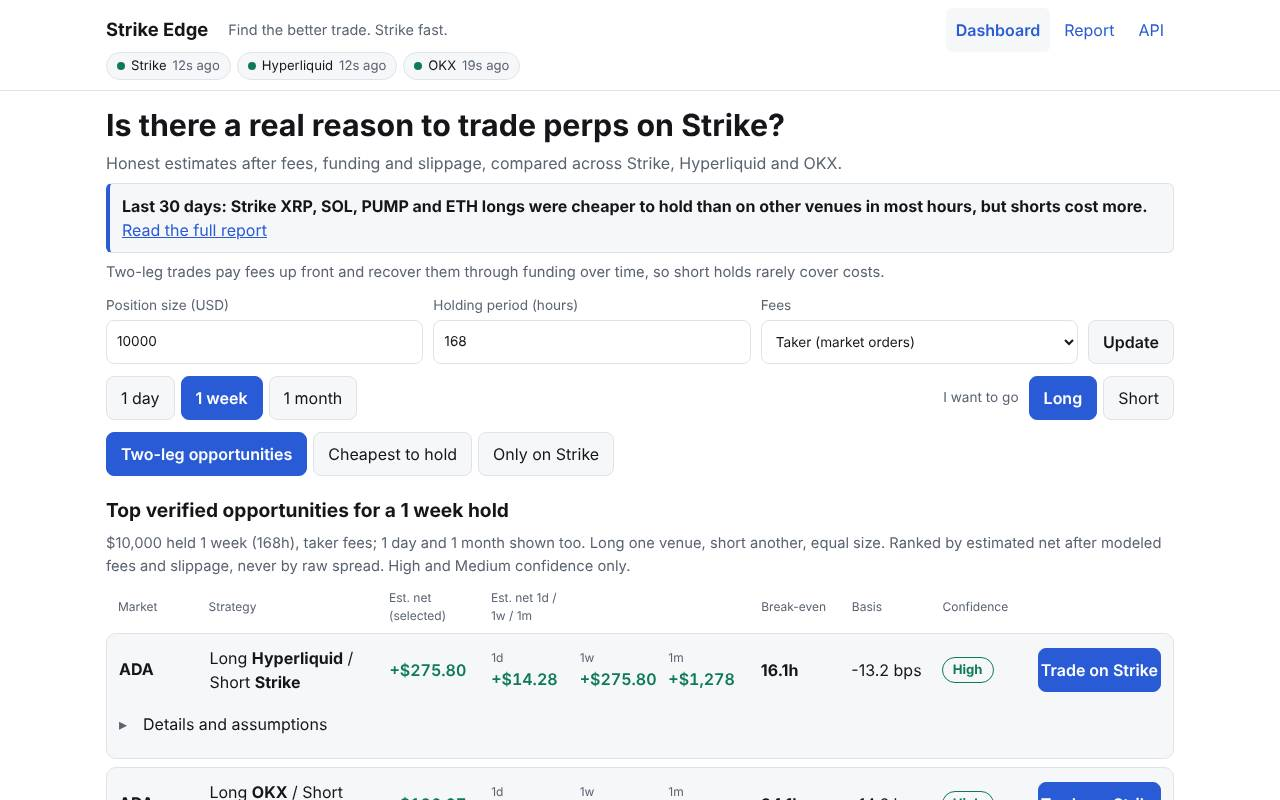
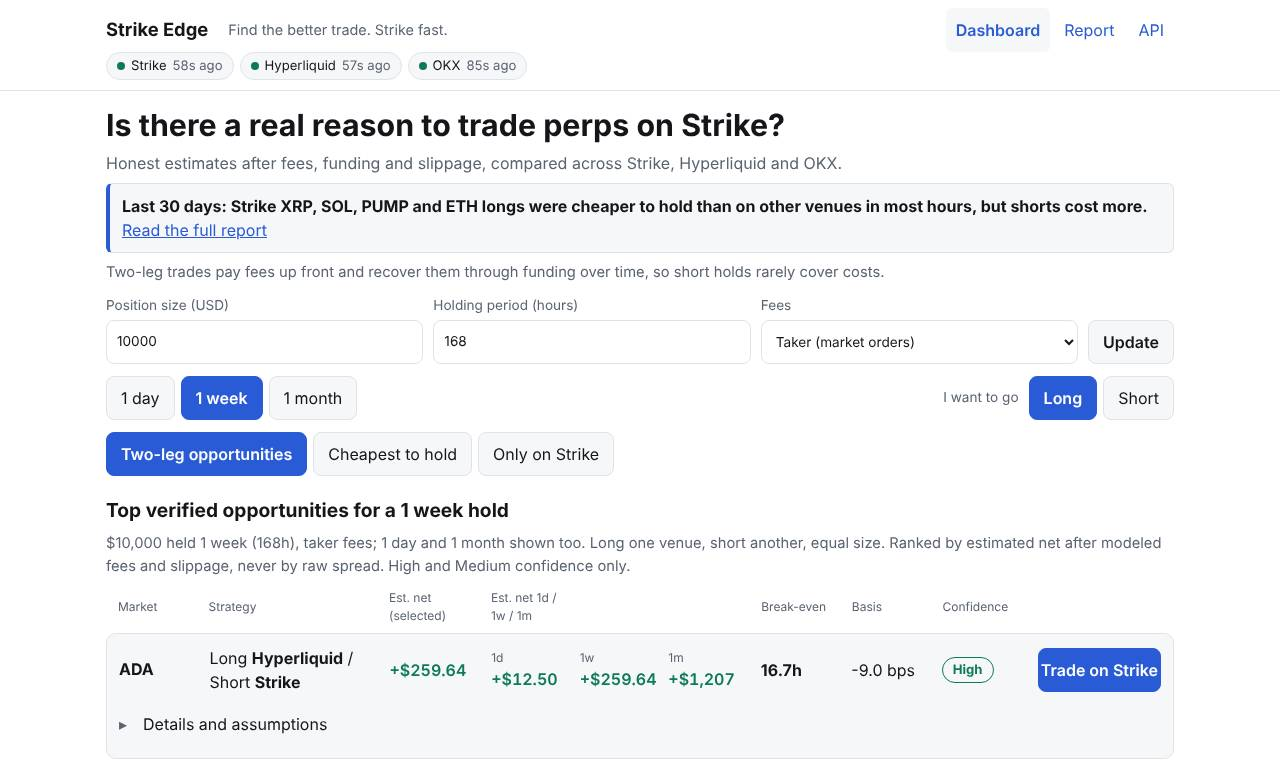
README: move tool comparison after Who it is for; crop hero below first card

diff --git a/tests/test_rename.py b/tests/test_rename.py
@@ -164,11 +164,7 @@ def test_readme_states_rate_limit_is_best_effort_and_todo_note_exists():
         "which is fixed by the poller schedule."
     )
     assert line in readme
-    assert (
-        readme.index("## API quickstart")
-        < readme.index(line)
-        < readme.index("## How existing tools compare")
-    )
+    assert readme.index("## API quickstart") < readme.index(line) < readme.index("## Run locally")
     todo = (ROOT / "docs" / "TODO-rate-limit-client-key.md").read_text()
     for needle in (
         "CF-Connecting-IP",
@@ -398,7 +394,7 @@ def test_desktop_hero_and_charts_images_are_unchanged_in_place():
     findings = readme.split("## 30-day historical report")[1].split("## Ask an AI")[0]
     assert "(docs/screenshots/report-charts-desktop.jpg)" in findings
     w, h = jpeg_size(ROOT / "docs/screenshots/home-desktop.jpg")
-    assert w == 1280 and h <= 800 and h >= 600, (w, h)  # first screen only, never full page
+    assert w == 1280 and 400 <= h <= 800, (w, h)  # first screen only, never full page
 
 
 def test_mobile_screenshots_are_viewport_only_375_by_812():
@@ -419,8 +415,8 @@ def test_readme_section_order_and_report_section():
 
     r = _readme()
     heads = re.findall(r"^## (.+)$", r, flags=re.M)
-    assert heads[:6] == ["30-day historical report", "Ask an AI", "Who it is for", "Screenshots",
-                         "What it shows", "How it uses Strike's API"]  # fmt: skip
+    assert heads[:6] == ["30-day historical report", "Ask an AI", "Who it is for",
+                         "How existing tools compare", "Screenshots", "What it shows"]  # fmt: skip
     assert "Headline findings" not in r
     assert (
         r.index("**Three ways to use it**")
@@ -457,7 +453,7 @@ def test_readme_quickstart_uses_live_base_url_and_notes_localhost_once():
 
 def test_readme_mcp_questions_order_and_small_wording_fixes():
     r = _readme()
-    qs = r.split("**Example questions to ask an assistant:**")[1].split("## How existing")[0]
+    qs = r.split("**Example questions to ask an assistant:**")[1].split("## Run locally")[0]
     assert qs.index(
         "Over the last 30 days, was Strike cheaper than Hyperliquid and OKX for holding ETH longs?"
     ) < qs.index("Where is ETH cheapest to hold long")

diff --git a/scripts/check_layout.py b/scripts/check_layout.py
@@ -113,10 +113,13 @@ def run(base: str, out: Path, expect_charts: bool = True) -> list[str]:
                 if pname in SHOT_PAGES:
                     # Mobile shots are viewport-only (375x812, the first screen, never full page).
                     # Desktop: report is full page, hold is the first screen, and the home hero is
-                    # the first 1280x800 (header, headline, top opportunities), never full page.
+                    # the first screen cropped below the first opportunity card (1280 wide, at most 800 tall).
                     shot = dict(path=str(out / f"{pname}-{wname}.jpg"), type="jpeg", quality=70)
                     if not mobile and pname == "home":
-                        shot["clip"] = {"x": 0, "y": 0, "width": HERO[0], "height": HERO[1]}
+                        # End just below the first opportunity card, so no second card is cut.
+                        card = page.locator(".rows .row").first.bounding_box()
+                        h_hero = min(HERO[1], int(card["y"] + card["height"]) + 8)
+                        shot["clip"] = {"x": 0, "y": 0, "width": HERO[0], "height": h_hero}
                     shot["full_page"] = not mobile and pname == "report"
                     page.screenshot(**shot)
                 if path == "/report" and expect_charts:

diff --git a/tests/test_mcp.py b/tests/test_mcp.py
@@ -287,8 +287,10 @@ async def test_stdio_entry_point_starts_lists_tools_and_answers(tmp_path):
 def test_readme_and_demo_document_the_mcp_endpoint():
     readme = (ROOT / "README.md").read_text()
     assert "## Use with AI agents (MCP)" in readme
-    assert readme.index("## Use with AI agents (MCP)") < readme.index(
-        "## How existing tools compare"
+    assert (
+        readme.index("## How existing tools compare")
+        < readme.index("## Use with AI agents (MCP)")
+        < readme.index("## Run locally")
     )
     for needle in (
         "https://strike-edge.onrender.com/mcp", "get_opportunities", "get_holding_cost", "get_report",
@@ -298,7 +300,7 @@ def test_readme_and_demo_document_the_mcp_endpoint():
     ):  # fmt: skip
         assert needle in readme, needle
     questions = readme.split("**Example questions to ask an assistant:**")[1].split(
-        "## How existing tools compare"
+        "## Run locally"
     )[0]
     assert len([ln for ln in questions.splitlines() if ln.strip()[:2] in ("1.", "2.", "3.")]) == 3
 

diff --git a/tests/test_browser.py b/tests/test_browser.py
@@ -45,6 +45,7 @@ def test_every_page_at_375_and_1280_has_no_overflow_and_charts_render(tmp_path):
         assert jpeg_size(tmp_path / f"{name}.jpg") == (375, 812), (
             name
         )  # viewport-only, never full page
-    assert jpeg_size(tmp_path / "home-desktop.jpg") == (1280, 800)  # hero: viewport clip only
+    hw, hh = jpeg_size(tmp_path / "home-desktop.jpg")
+    assert hw == 1280 and 400 <= hh <= 800  # hero: first screen, cropped below the first card
     for name in ("report-desktop", "report-charts-desktop"):
         assert jpeg_size(tmp_path / f"{name}.jpg")[0] in (1280, 1068), name

diff --git a/README.md b/README.md
@@ -46,6 +46,15 @@ Connected to the MCP server, an assistant answers this by calling the `get_repor
 - **Traders and Strike holders** use the web dashboard: the top verified opportunities, the cheapest venue to hold a long or short, and a 30-day report.
 - **Bots, quant desks and AI agents** use the versioned JSON API (`/api/v1`), OpenAPI docs at `/docs`, `/llms.txt`, and the MCP server at `/mcp` (see [Use with AI agents (MCP)](#use-with-ai-agents-mcp)). Both audiences get the same numbers from the same engine.
 
+## How existing tools compare
+
+As of 2026-10-21, from their public pages (check them directly; they change):
+
+- **[Octav Perps](https://octav.fi/blog/perp-funding-rates-dashboard.md)** (post dated 2026-01-23) is a free funding-rate dashboard across Apex, Aster, Binance, Bybit, Hyperliquid, Lighter, OKX, Pacifica and Paradex. Strike is not listed. It ranks symbols by funding spread; the post does not describe fee- or slippage-adjusted figures, and the API it points to is for portfolio and funding position data, not a perps opportunities API.
+- **[Otomato](https://otomato.xyz/tools/funding-rate-arbitrage)** (page accessed 2026-10-19) offers a funding rate arbitrage scanner covering Hyperliquid, Binance and Bybit. It ranks by net APR and states that its figures are an "Estimate before fees and slippage." Strike is not listed.
+
+Strike Edge adds what a Strike trader needs: Strike coverage, results after fees and slippage at your size, an after-cost ranking exposed as an API, an MCP server for AI agents, and honest per-row confidence.
+
 ## Screenshots
 
 <details>
@@ -264,15 +273,6 @@ asyncio.run(main())
 2. "Where is ETH cheapest to hold long for 1 week at $10k, after fees?" (live answer changes hourly)
 3. "What are the best two-leg funding trades right now for a 1-week hold, and how confident are they?"
 4. "Over the last 30 days, how often was Strike cheaper than Hyperliquid for holding SOL longs?"
-
-## How existing tools compare
-
-As of 2026-10-21, from their public pages (check them directly; they change):
-
-- **[Octav Perps](https://octav.fi/blog/perp-funding-rates-dashboard.md)** (post dated 2026-01-23) is a free funding-rate dashboard across Apex, Aster, Binance, Bybit, Hyperliquid, Lighter, OKX, Pacifica and Paradex. Strike is not listed. It ranks symbols by funding spread; the post does not describe fee- or slippage-adjusted figures, and the API it points to is for portfolio and funding position data, not a perps opportunities API.
-- **[Otomato](https://otomato.xyz/tools/funding-rate-arbitrage)** (page accessed 2026-10-19) offers a funding rate arbitrage scanner covering Hyperliquid, Binance and Bybit. It ranks by net APR and states that its figures are an "Estimate before fees and slippage." Strike is not listed.
-
-Strike Edge adds what a Strike trader needs: Strike coverage, results after fees and slippage at your size, an after-cost ranking exposed as an API, an MCP server for AI agents, and honest per-row confidence.
 
 ## Run locally
 
